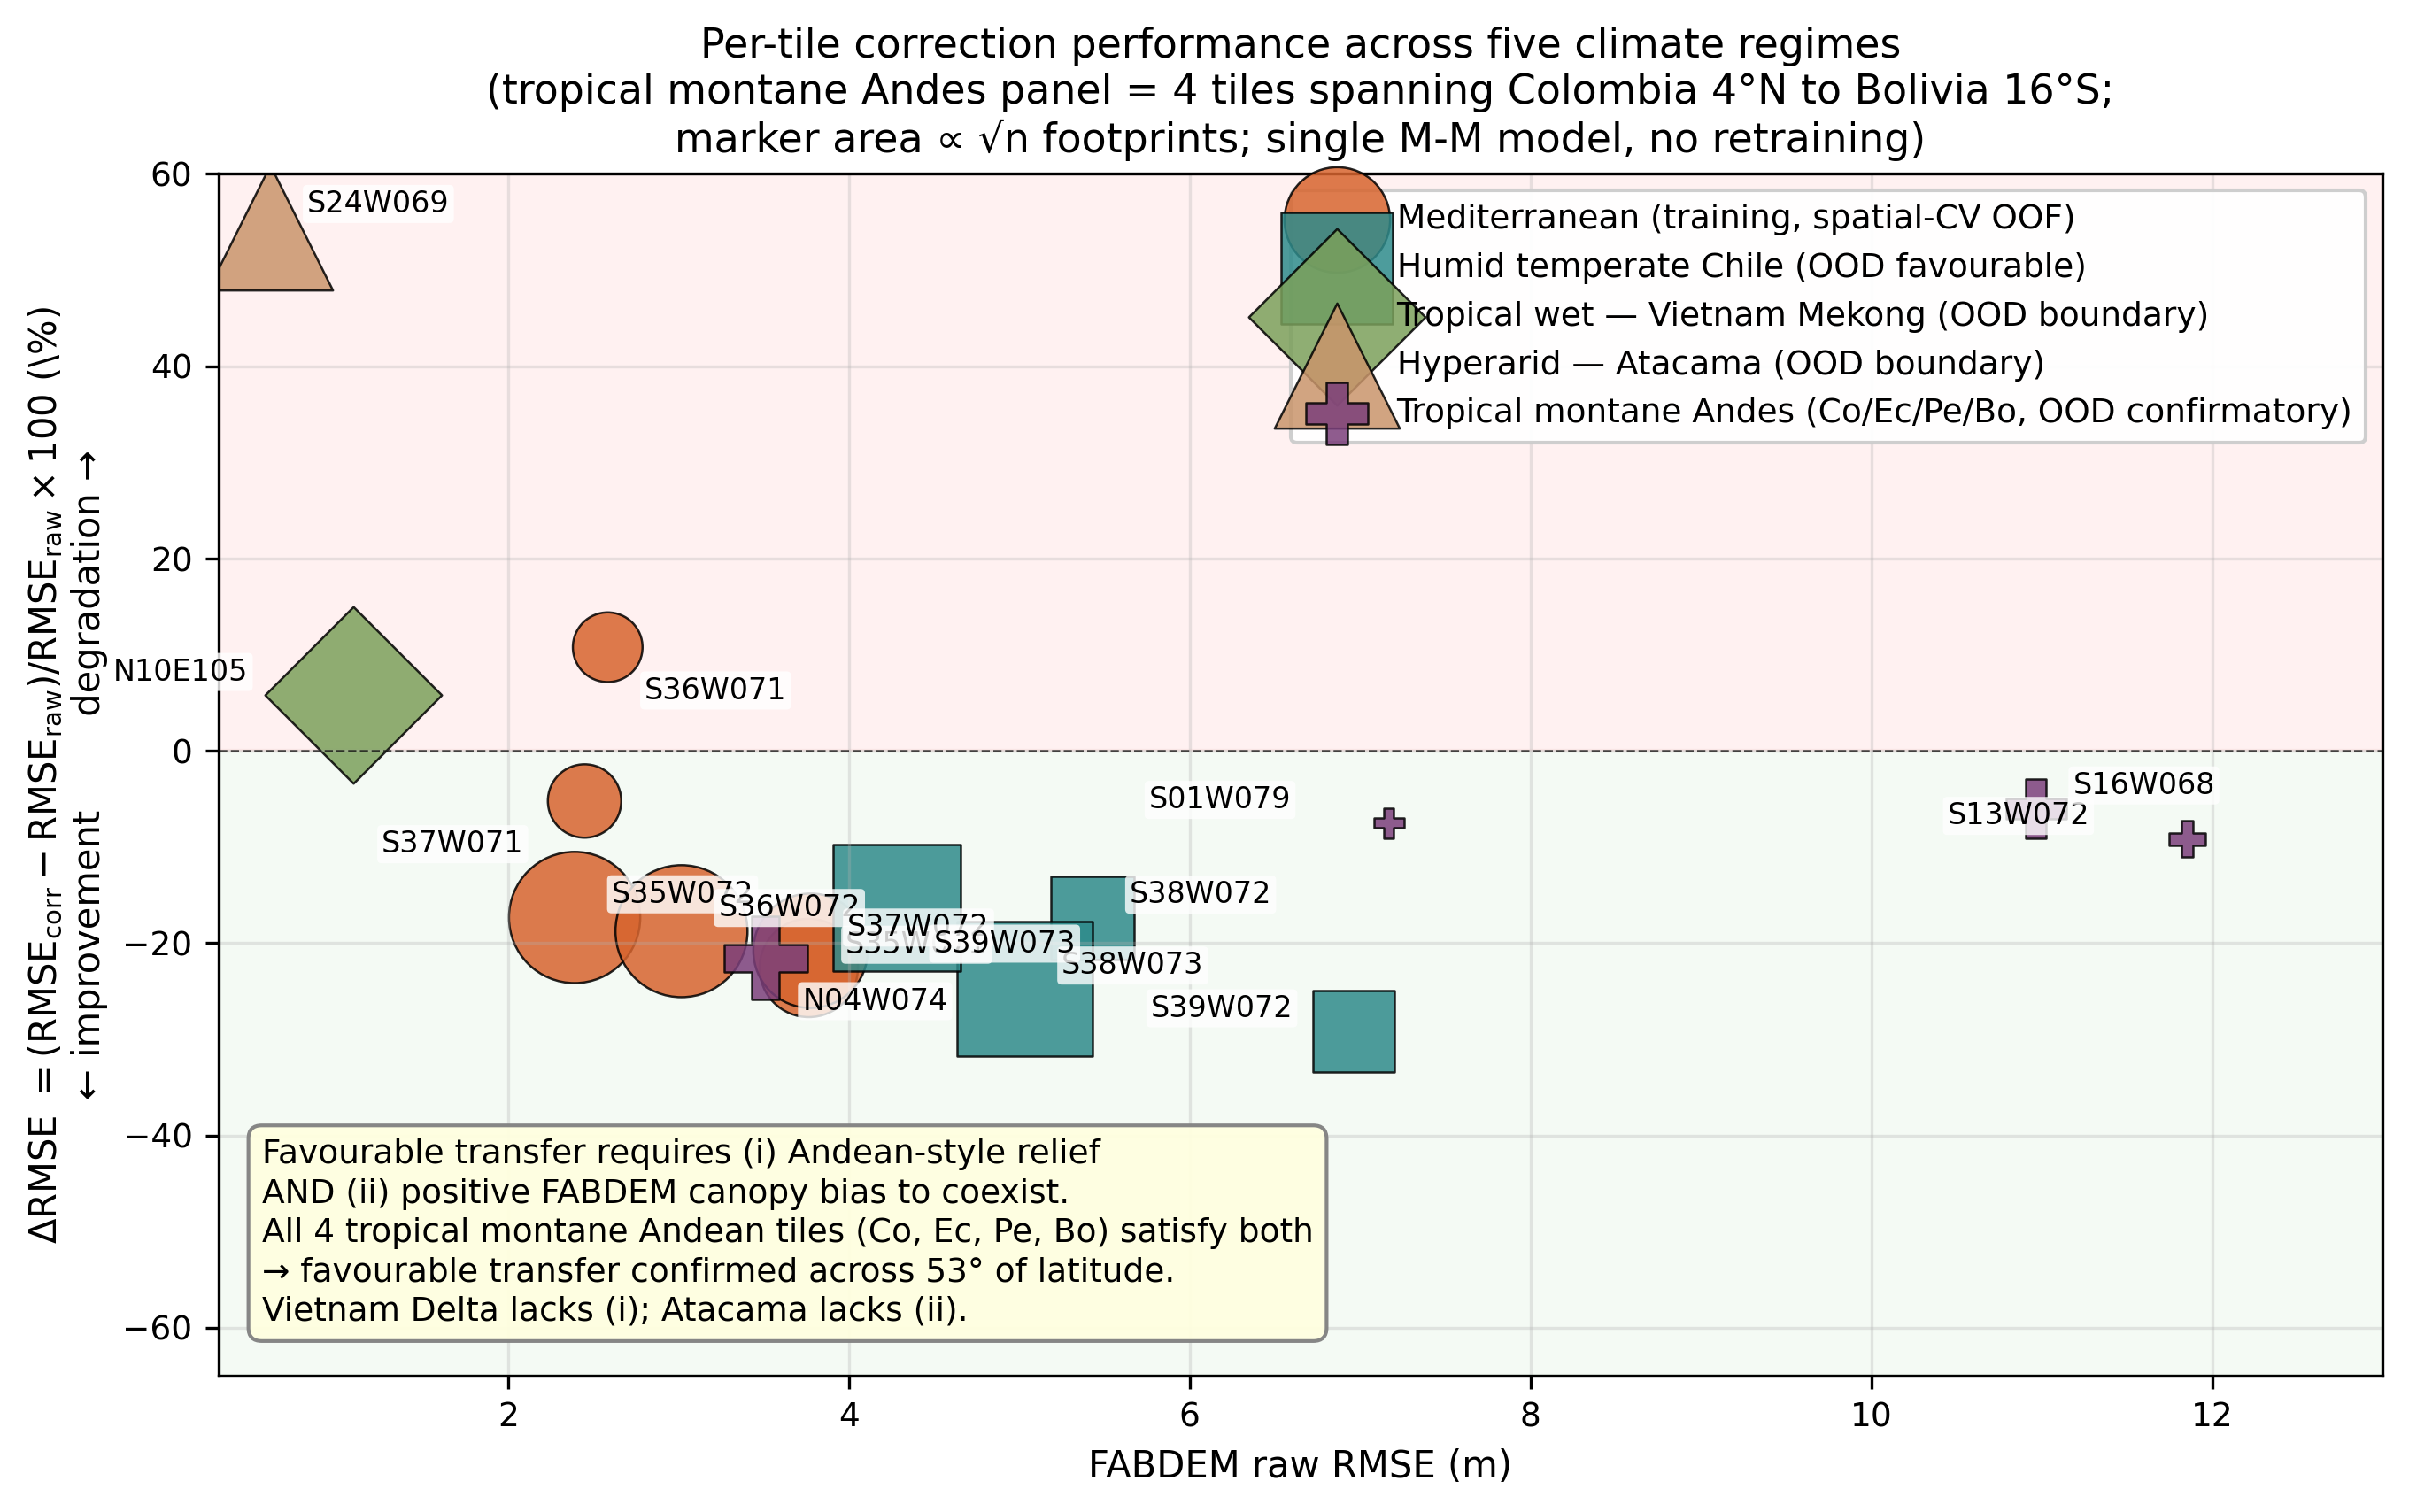
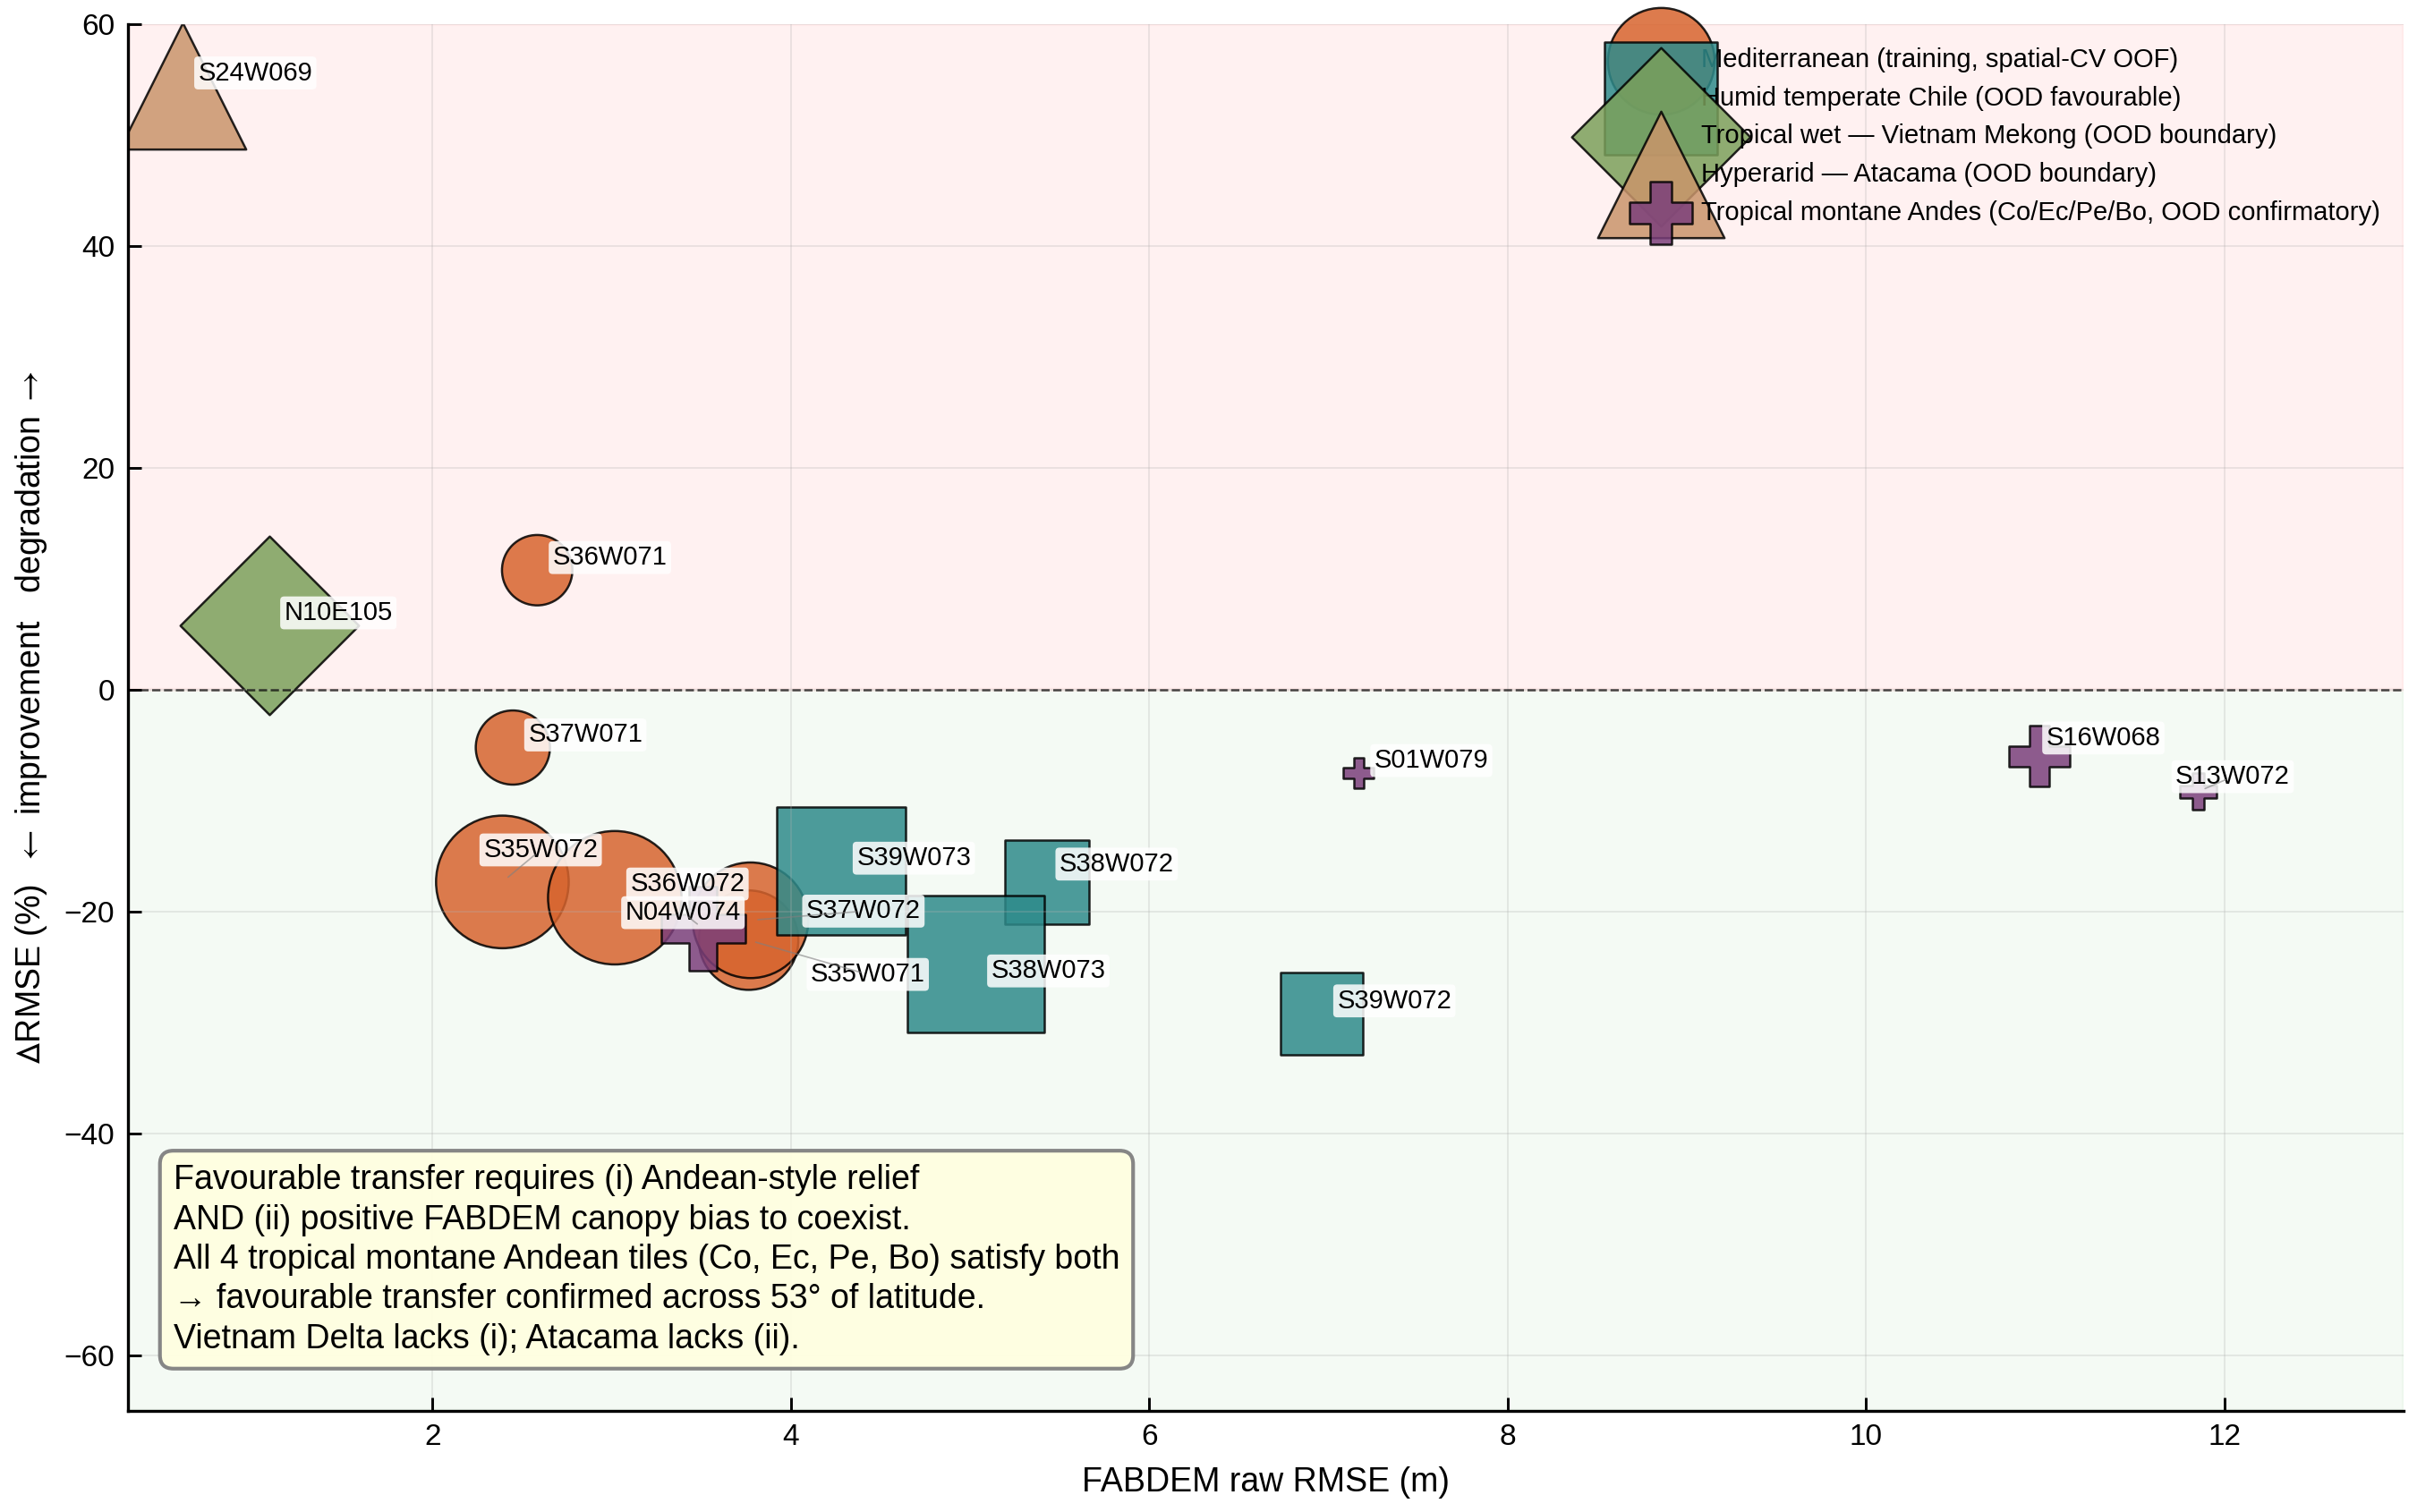
Fix paper-figures critical items (F2 TikZ + F5 overlap + style_v2 base)
paper-figures-py audit identified 3 critical issues (1 deal-breaker + 2 bloqueantes):
- F2 pipeline flowchart in matplotlib → not acceptable for ISPRS J P&RS
- F5 OOD multi-regime: severe tile-label overlap in RMSE 2-5 m cluster
- Sistemic: DejaVu Sans default + set_title duplicating LaTeX caption

This commit closes all three:

F2 re-done as TikZ standalone (figures/F2_pipeline.tex):
- 5 colour-coded process groups (Data sources, Per-tile features, Footprint
  pipeline, Training, Outputs) with dashed enclosing rectangles + italic labels
- Native vector, matches body typography via \sffamily, no matplotlib telltale
- Included in main.tex via \resizebox{\textwidth}{!}{\input{figures/F2_pipeline.tex}}
- Required tikz packages added to preamble (positioning, arrows.meta,
  shapes.geometric, fit, backgrounds)

F5 overlap fixed (regen_F5_multiregime.py):
- adjustText library: auto-positions tile labels to avoid cluster collisions
  in the dense RMSE 2-5 m area; arrowstyle "-" connector preserves origin
- Title removed (caption already in main.tex)
- Y-label compressed: "∆RMSE (%)  ← improvement   degradation →"
- Imports style_v2.setup_style() + COLORS_REGIME

style_v2.py created (figures/style_v2.py):
- Reusable matplotlib rcParams: Helvetica/Arial fallback, spines bottom+left
  only, ticks `in`, grid alpha=0.3, legend frameon=False, pdf.fonttype=42
  (TrueType embedded, not Type 3 bitmap), 300 DPI savefig
- COLORS_REGIME dict for cross-figure colour consistency
[…]

diff --git a/paper/isprs/figures/F2_pipeline.tex b/paper/isprs/figures/F2_pipeline.tex
@@ -1,0 +1,110 @@
+% F2 — End-to-end pipeline flowchart. TikZ standalone, included by main.tex.
+% Replaces the matplotlib version (not acceptable for ISPRS J P&RS top-tier).
+%
+% Required packages (already loaded by elsarticle preamble):
+%   \usepackage{tikz}
+%   \usetikzlibrary{positioning, arrows.meta, shapes.geometric, fit, backgrounds}
+\begin{tikzpicture}[
+  font=\sffamily\small,
+  node distance=4mm and 6mm,
+  every node/.style={align=center},
+  % --- node styles
+  data/.style={
+    rectangle, rounded corners=2pt,
+    fill=blue!10, draw=blue!60!black, line width=0.5pt,
+    minimum width=24mm, minimum height=9mm,
+    inner sep=2pt,
+  },
+  process/.style={
+    rectangle, rounded corners=2pt,
+    fill=orange!15, draw=orange!70!black, line width=0.5pt,
+    minimum width=28mm, minimum height=9mm,
+    inner sep=2pt,
+  },
+  feature/.style={
+    rectangle, rounded corners=2pt,
+    fill=green!12, draw=green!50!black, line width=0.5pt,
+    minimum width=26mm, minimum height=9mm,
+    inner sep=2pt,
+  },
+  model/.style={
+    rectangle, rounded corners=2pt,
+    fill=purple!15, draw=purple!70!black, line width=0.5pt,
+    minimum width=30mm, minimum height=9mm,
+    inner sep=2pt,
+  },
+  output/.style={
+    rectangle, rounded corners=2pt,
+    fill=red!10, draw=red!70!black, line width=0.5pt,
+    minimum width=26mm, minimum height=9mm,
+    inner sep=2pt,
+  },
+  group/.style={
+    rectangle, rounded corners=4pt,
+    draw=gray!50, dashed, line width=0.4pt,
+    inner sep=3mm,
+  },
+  flow/.style={-{Latex[length=2mm]}, line width=0.6pt, gray!70!black},
+  flowback/.style={flow, dashed},
+]
+
+% =============== Inputs (left column) ===============
+\node[data] (fabdem) {FABDEM v1.2\\\scriptsize via GEE};
+\node[data, below=of fabdem] (sentinel) {Sentinel-1/2\\\scriptsize Planetary Computer};
+\node[data, below=of sentinel] (atl08) {ICESat-2 ATL08\\\scriptsize earthaccess};
+\node[data, below=of atl08] (egm08) {EGM2008 geoid\\\scriptsize PROJ network};
+
+% =============== Per-tile feature derivation ===============
+\node[feature, right=14mm of fabdem] (terrain) {SurtGis terrain\\\scriptsize slope, openness, MRVBF\ldots};
+\node[feature, below=of terrain] (hydro) {SurtGis hydrology\\\scriptsize HAND, TWI, flow\ldots};
+\node[feature, below=of hydro] (s2) {Sentinel-2 indices\\\scriptsize NDVI, NDWI, NDMI\ldots};
+\node[feature, below=of s2] (s1) {Sentinel-1 SAR\\\scriptsize VV, VH, ratio};
+
+% =============== Footprint pipeline ===============
+\node[process, right=14mm of terrain] (extract) {Extract ATL08\\\scriptsize quality filter, EGM2008\\\scriptsize WGS84 \(\to\) orthometric};
+\node[process, below=18mm of extract] (sample) {Sample features\\\scriptsize at footprint coords\\\scriptsize (CRS-aware nearest)};
+\node[process, below=of sample] (target) {Build regression target\\\scriptsize \(y = h_{te,\text{ortho}} - h_{\text{fabdem}}\)};
+
+% =============== ML training ===============
+\node[model, right=14mm of sample] (train) {XGBoost + Optuna\\\scriptsize 100 trials, spatial-block CV\\\scriptsize 10 km blocks, K=5};
+
+% =============== Outputs ===============
+\node[output, right=14mm of train, yshift=10mm] (rmse) {OOF RMSE\\\scriptsize 3.054 \(\to\) 2.483 m};
+\node[output, right=14mm of train, yshift=-10mm] (cog) {Corrected DEM\\\scriptsize Cloud-Optimized GeoTIFF};
+\node[output, below=of cog] (ood) {OOD evaluation\\\scriptsize 8 climate regimes\\\scriptsize 16 tiles, 181k footprints};
+
+% =============== Arrows ===============
+\draw[flow] (fabdem) -- (terrain);
+\draw[flow] (fabdem.east) -- ++(4mm,0) |- (hydro.west);
+\draw[flow] (sentinel) -- (s2);
+\draw[flow] (sentinel.east) -- ++(4mm,0) |- (s1.west);
+\draw[flow] (atl08) -- (extract);
+\draw[flow] (egm08.east) -| (extract.south);
+
+\draw[flow] (terrain.east) -- ++(4mm,0) |- (sample.west);
+\draw[flow] (hydro.east)   -- ++(4mm,0) |- (sample.west);
+\draw[flow] (s2.east)      -- ++(4mm,0) |- (sample.west);
+\draw[flow] (s1.east)      -- ++(4mm,0) |- (sample.west);
+
+\draw[flow] (extract) -- (sample);
+\draw[flow] (sample)  -- (target);
+\draw[flow] (target.east) -- ++(4mm,0) |- (train.west);
+\draw[flow] (train.east) -- ++(4mm,0) |- (rmse.west);
+\draw[flow] (train.east) -- ++(4mm,0) |- (cog.west);
+\draw[flow] (cog)        -- (ood);
+
+% =============== Background groups ===============
+\begin{pgfonlayer}{background}
+  \node[group, fit=(fabdem) (egm08), label={[font=\sffamily\scriptsize\itshape,
+        text=gray!60!black, anchor=south]above:Data sources}] {};
+  \node[group, fit=(terrain) (s1), label={[font=\sffamily\scriptsize\itshape,
+        text=gray!60!black, anchor=south]above:Per-tile feature derivation}] {};
+  \node[group, fit=(extract) (target), label={[font=\sffamily\scriptsize\itshape,
+        text=gray!60!black, anchor=south]above:Footprint pipeline}] {};
+  \node[group, fit=(train), label={[font=\sffamily\scriptsize\itshape,
+        text=gray!60!black, anchor=south]above:Training}] {};
+  \node[group, fit=(rmse) (ood), label={[font=\sffamily\scriptsize\itshape,
+        text=gray!60!black, anchor=south]above:Outputs}] {};
+\end{pgfonlayer}
+
+\end{tikzpicture}

diff --git a/paper/figures/style_v2.py b/paper/figures/style_v2.py
@@ -1,0 +1,79 @@
+"""Publication-grade matplotlib style for the FABDEM-ML paper.
+
+Eliminates DejaVu Sans default, enforces Helvetica/Arial, removes top+right
+spines, sets ticks `in`, disables legend frame by default, and sets DPI for
+PDF vector output.
+
+Import at the start of any figure-generation script:
+    from style_v2 import setup_style, COLORS_REGIME
+    setup_style()
+"""
+import matplotlib.pyplot as plt
+import matplotlib as mpl
+
+
+def setup_style():
+    """Apply publication-grade rcParams. Call once at module load."""
+    mpl.rcParams.update({
+        # ---- Tipografía: Helvetica/Arial (NOT DejaVu Sans default)
+        "font.family": "sans-serif",
+        "font.sans-serif": ["Helvetica", "Arial", "Liberation Sans", "DejaVu Sans"],
+        "mathtext.fontset": "stixsans",
+        "font.size": 9,
+
+        # ---- Jerarquía de tamaños (panels > axis > ticks > annotations)
+        "axes.titlesize": 10,   # most titles will be removed, kept as fallback
+        "axes.labelsize": 9,
+        "xtick.labelsize": 8,
+        "ytick.labelsize": 8,
+        "legend.fontsize": 8,
+
+        # ---- Spines: only bottom + left
+        "axes.spines.top": False,
+        "axes.spines.right": False,
+        "axes.linewidth": 0.8,
+
+        # ---- Ticks: dirección `in`, sizes correctos
+        "xtick.direction": "in",
+        "ytick.direction": "in",
+        "xtick.major.size": 3.5,
+        "ytick.major.size": 3.5,
+        "xtick.minor.size": 2,
+        "ytick.minor.size": 2,
+        "xtick.major.width": 0.7,
+        "ytick.major.width": 0.7,
+
+        # ---- Grid: sutil
+        "axes.grid": True,
+        "grid.alpha": 0.3,
+        "grid.linewidth": 0.4,
+
+        # ---- Legend: sin frame por defecto
+        "legend.frameon": False,
+        "legend.handlelength": 1.5,
+        "legend.borderpad": 0.4,
+
+        # ---- Output: 300 DPI minimum, tight bbox
+        "figure.dpi": 100,
+        "savefig.dpi": 300,
+        "savefig.bbox": "tight",
+        "savefig.pad_inches": 0.05,
+
+        # ---- Misc
+        "pdf.fonttype": 42,   # TrueType (Type 42) — embeds, not Type 3 (bitmap)
+        "ps.fonttype": 42,
+    })
+
+
+# Cross-figure consistent colors by regime (used in F1, F3, F4, F5, F6, F7)
+COLORS_REGIME = {
+    "mediterranean":   "#D7642E",  # warm orange — training
+    "humid_temperate": "#2E8B8B",  # teal — Chile OOD favourable
+    "tropical_wet":    "#7BA05B",  # sage green — Vietnam OOD boundary
+    "hyperarid":       "#C9956B",  # tan/sand — Atacama OOD boundary
+    "tropical_montane": "#7B3F7B", # purple — Cusco/Col/Ec/Bo OOD confirmatory
+}
+
+# Raw vs corrected (used in F3, F4, F7)
+COLOR_RAW = "#888888"
+COLOR_CORR = "#1F77B4"

diff --git a/paper/figures/regen_F5_multiregime.py b/paper/figures/regen_F5_multiregime.py
@@ -6,37 +6,22 @@ a four-regime scatter that adds the non-Chilean OOD tiles (Vietnam Mekong
 Delta, Atacama). Mediterranean tiles now use spatial-CV OOF predictions for
 honest comparison (no in-sample leakage in the visual either).
 """
+import sys
 from pathlib import Path
 import numpy as np
 import pandas as pd
 import matplotlib.pyplot as plt
 
-plt.rcParams.update({
-    "font.family": "DejaVu Sans",
-    "font.size": 10,
-    "axes.titlesize": 11,
-    "axes.labelsize": 10,
-    "xtick.labelsize": 9,
-    "ytick.labelsize": 9,
-    "legend.fontsize": 9,
-    "figure.dpi": 100,
-    "savefig.dpi": 300,
-    "savefig.bbox": "tight",
-    "axes.grid": True,
-    "grid.alpha": 0.3,
-})
+sys.path.insert(0, str(Path(__file__).resolve().parent))
+from style_v2 import setup_style, COLORS_REGIME
+from adjustText import adjust_text
+setup_style()
 
 ROOT = Path("/home/franciscoparrao/proyectos/super-resolution-dem")
 FIG = ROOT / "paper" / "figures"
 ISPRS_FIG = ROOT / "paper" / "isprs" / "figures"
 
-COLORS = {
-    "mediterranean":   "#D7642E",  # warm orange — training
-    "humid_temperate": "#2E8B8B",  # teal — OOD Chile (favourable)
-    "tropical_wet":    "#7BA05B",  # sage green — OOD Vietnam (boundary, marginal degrade)
-    "hyperarid":       "#C9956B",  # tan/sand — OOD Atacama (boundary, catastrophic)
-    "tropical_montane": "#7B3F7B", # purple — OOD Cusco (confirmatory favourable)
-}
+COLORS = COLORS_REGIME
 MARKERS = {
     "mediterranean":   "o",
     "humid_temperate": "s",
@@ -126,23 +111,15 @@ for regime in ["mediterranean", "humid_temperate", "tropical_wet", "hyperarid", 
     )
 
 # Per-tile labels with anti-overlap offsets
-OFFSETS = {
-    "S35W071": (10, 4),     "S35W072": (10, 4),
-    "S36W071": (10, -14),   "S36W072": (10, 4),
-    "S37W071": (-55, -14),  "S37W072": (10, 4),
-    "S38W072": (10, 4),     "S38W073": (10, 4),
-    "S39W072": (-55, 4),    "S39W073": (10, -12),
-    "N10E105": (-65, 4),    "S24W069": (10, 4),
-    "S13W072": (-65, 4),    "N04W074": (10, -14),
-    "S01W079": (-65, 4),    "S16W068": (10, 4),
-}
+# Auto-positioned labels (adjustText) avoid the cluster overlap at RMSE 2-5 m
+texts = []
 for _, r in agg.iterrows():
-    dx, dy = OFFSETS.get(r.tile, (8, 4))
-    ax.annotate(
-        r.tile, (r.rmse_raw, r.delta_pct),
-        fontsize=8, xytext=(dx, dy), textcoords="offset points",
-        bbox=dict(boxstyle="round,pad=0.15", fc="white", ec="none", alpha=0.8),
-    )
+    texts.append(ax.text(r.rmse_raw, r.delta_pct, r.tile, fontsize=7,
+                         bbox=dict(boxstyle="round,pad=0.15", fc="white",
+                                   ec="none", alpha=0.85)))
+adjust_text(texts, ax=ax, only_move={"text": "xy"}, force_text=(0.6, 0.8),
+            expand_text=(1.1, 1.3), expand_points=(1.4, 1.4),
+            arrowprops=dict(arrowstyle="-", color="gray", lw=0.4, alpha=0.6))
 
 ax.axhline(0, color="black", linewidth=0.6, linestyle="--", alpha=0.7)
 
@@ -151,11 +128,9 @@ ax.axhspan(-65, 0, color="#E4F4E4", alpha=0.4, zorder=-1)   # improvement
 ax.axhspan(0, 60, color="#FFE4E4", alpha=0.5, zorder=-1)    # degradation
 
 ax.set_xlabel("FABDEM raw RMSE (m)")
-ax.set_ylabel(r"$\Delta$RMSE $= (\mathrm{RMSE}_{\mathrm{corr}} - \mathrm{RMSE}_{\mathrm{raw}}) / \mathrm{RMSE}_{\mathrm{raw}} \times 100$ (\%)" "\n← improvement        degradation →")
-ax.set_title("Per-tile correction performance across five climate regimes\n"
-             "(tropical montane Andes panel = 4 tiles spanning Colombia 4°N to Bolivia 16°S;\n"
-             "marker area ∝ √n footprints; single M-M model, no retraining)")
-ax.legend(loc="upper right", framealpha=0.95)
+ax.set_ylabel(r"$\Delta$RMSE (%)  $\leftarrow$ improvement   degradation $\rightarrow$")
+# Title removed — caption is in LaTeX
+ax.legend(loc="upper right", fontsize=7)
 ax.set_xlim(0.3, 13)
 ax.set_ylim(-65, 60)
 

diff --git a/paper/isprs/main.tex b/paper/isprs/main.tex
@@ -14,6 +14,8 @@
 \usepackage{siunitx}
 \usepackage{lineno}
 \usepackage{natbib}
+\usepackage{tikz}
+\usetikzlibrary{positioning, arrows.meta, shapes.geometric, fit, backgrounds}
 
 \modulolinenumbers[5]
 \linenumbers
@@ -181,7 +183,7 @@ The processing pipeline (Fig.~\ref{fig:pipeline}) is organised as a tile-paralle
 
 \begin{figure*}[t]
 \centering
-\includegraphics[width=\textwidth]{figures/F2_pipeline_flowchart.pdf}
+\resizebox{\textwidth}{!}{\input{figures/F2_pipeline.tex}}
 \caption{End-to-end processing pipeline. Stages (i)--(vi) execute independently per $1^{\circ}$ FABDEM tile; per-tile sample tables are concatenated for training. Each stage is checkpointed (skipped on resume if output exists) and supervised by a \texttt{psutil}-based RAM watchdog. ATL08 footprints are converted from WGS84 ellipsoidal to EGM2008 orthometric heights via PROJ network mode before the regression target is assembled.}
 \label{fig:pipeline}
 \end{figure*}